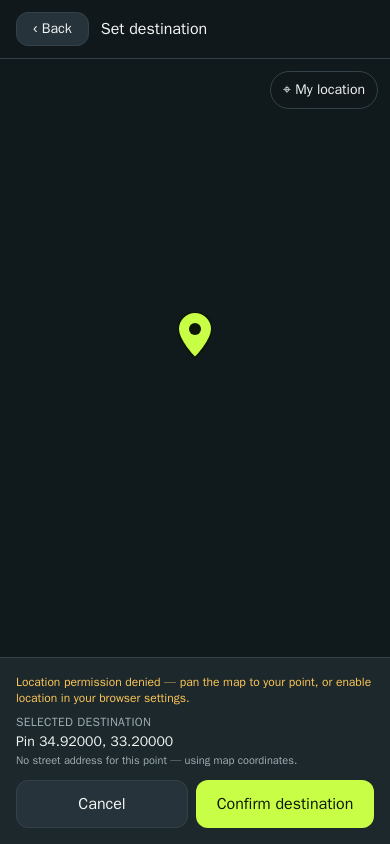
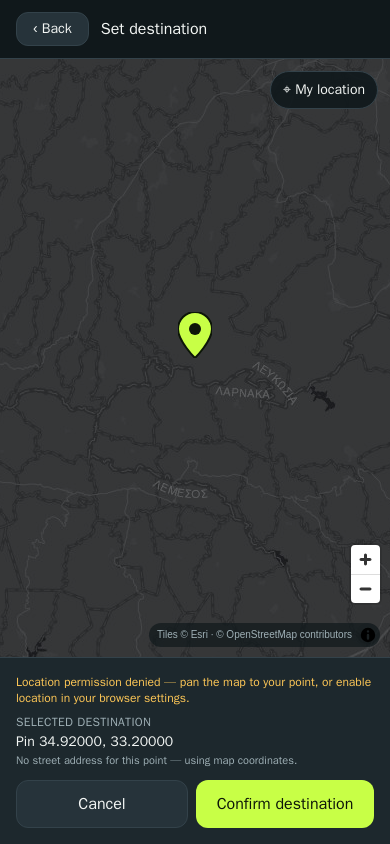
Task 009: fix map tiles (Esri) + Referrer-Policy + picker-not-loading; browser-verified
- Root cause of picker blank map: the map container (absolute inset-0) resolved to
  height 0, so MapLibre fell back to a 300px canvas. Fixed with explicit h-full w-full
  (container now fills the 598px region; canvas 598px; tiles render — verified by
  screenshot showing Cyprus labels/roads).
- Referrer-Policy: strict-origin-when-cross-origin on ordinary pages so tile providers
  get the origin; no-referrer kept on /track and /api (no token/path leakage).
- Picker lifecycle: ResizeObserver + delayed resizes, loading state, Confirm gated on
  map load, Retry recreates the map; background booking map unmounted while picker open.
- Browser QA updated: waits for map load before screenshot; screenshots refreshed.

Claude-Session: https://claude.ai/code/session_01Es9fK9KV7TUk8fY9RUjHFY

diff --git a/src/components/booking/MapPicker.tsx b/src/components/booking/MapPicker.tsx
@@ -56,6 +56,8 @@ export default function MapPicker({ kind, initial, fallback, onConfirm, onCancel
   const [geo, setGeo] = useState<GeoState>('idle');
   const [accuracyM, setAccuracyM] = useState<number | null>(null);
   const [failed, setFailed] = useState(false);
+  const [mapLoaded, setMapLoaded] = useState(false);
+  const [retryKey, setRetryKey] = useState(0);
   const label = kind === 'pickup' ? 'Set pickup location' : 'Set destination';
 
   // Lock background scroll; restore on close.
@@ -92,6 +94,10 @@ export default function MapPicker({ kind, initial, fallback, onConfirm, onCancel
 
   useEffect(() => {
     let disposed = false;
+    let ro: ResizeObserver | null = null;
+    let timers: ReturnType<typeof setTimeout>[] = [];
+    setFailed(false);
+    setMapLoaded(false);
     (async () => {
       try {
         const maplibre = (await import('maplibre-gl')).default;
@@ -101,26 +107,31 @@ export default function MapPicker({ kind, initial, fallback, onConfirm, onCancel
           container: containerRef.current,
           style: demoStyle(),
           center: [start.lng, start.lat],
-          zoom: initial ? 15 : fallback ? 12 : 8,
+          zoom: initial ? 15 : fallback ? 13 : 10,
           attributionControl: { compact: true },
         });
         map.on('error', () => { if (!map.loaded()) setFailed(true); });
         map.addControl(new maplibre.NavigationControl({ showCompass: false }), 'bottom-right');
-        // User gestures mark the camera as user-controlled.
         const userGesture = (e: { originalEvent?: unknown }) => { if (e.originalEvent) userMoveCount.current += 1; };
         map.on('dragstart', userGesture);
         map.on('zoomstart', userGesture);
         map.on('rotatestart', userGesture);
-        // Coordinate tracks the centre under the fixed pin; label invalidates immediately.
         map.on('move', () => { const c = map.getCenter(); onCoordChange(c.lat, c.lng); });
         map.on('moveend', () => { const c = map.getCenter(); reverseGeocode(c.lat, c.lng, draftRev.current); });
         map.on('load', () => {
           if (disposed || closed.current) return;
+          setMapLoaded(true);
           map.resize();
           reverseGeocode(start.lat, start.lng, draftRev.current);
         });
         mapRef.current = map;
-        if (!initial) requestLocation(false); // auto-locate only when this field is empty
+        // This map lives in a fixed overlay: ensure it sizes to the visible container
+        // after layout settles, and on any later container resize/orientation change.
+        ro = new ResizeObserver(() => mapRef.current?.resize());
+        if (containerRef.current) ro.observe(containerRef.current);
+        [50, 200, 500].forEach((ms) => timers.push(setTimeout(() => mapRef.current?.resize(), ms)));
+        // Map init proceeds independently of geolocation.
+        if (!initial) requestLocation(false);
       } catch {
         if (!disposed) setFailed(true);
       }
@@ -130,13 +141,15 @@ export default function MapPicker({ kind, initial, fallback, onConfirm, onCancel
     window.addEventListener('orientationchange', onResize);
     return () => {
       disposed = true;
+      timers.forEach(clearTimeout);
+      ro?.disconnect();
       window.removeEventListener('resize', onResize);
       window.removeEventListener('orientationchange', onResize);
       mapRef.current?.remove();
       mapRef.current = null;
     };
     // eslint-disable-next-line react-hooks/exhaustive-deps
-  }, []);
+  }, [retryKey]);
 
   // Reverse-geocode tied to a specific draft revision. Applies ONLY if that draft is
   // still current (and the picker is open); ignores every stale success and failure.
@@ -252,23 +265,35 @@ export default function MapPicker({ kind, initial, fallback, onConfirm, onCancel
         {failed ? (
           <div className="flex h-full items-center justify-center px-6 text-center text-muted">
             <div>
-              <div className="text-sm text-ink">Map unavailable</div>
-              <div className="mt-1 text-xs">Close this and enter the address by name instead.</div>
-              <button className="btn-ghost mt-4" onClick={cancel}>Close</button>
+              <div className="text-sm text-ink">Map temporarily unavailable</div>
+              <div className="mt-1 text-xs">Your entered details are safe.</div>
+              <div className="mt-4 flex justify-center gap-2">
+                <button className="btn-primary" onClick={() => setRetryKey((k) => k + 1)}>Retry</button>
+                <button className="btn-ghost" onClick={cancel}>Enter address instead</button>
+              </div>
             </div>
           </div>
         ) : (
           <>
-            <div ref={containerRef} className="absolute inset-0" aria-label="Map — drag to position the pin" role="application" />
-            <div className="pointer-events-none absolute left-1/2 top-1/2 z-10 -translate-x-1/2 -translate-y-full">
-              <svg width="34" height="46" viewBox="0 0 34 46" aria-hidden>
-                <path d="M17 0C7.6 0 0 7.6 0 17c0 12 17 29 17 29s17-17 17-29C34 7.6 26.4 0 17 0z" fill="#C8FF46" stroke="#0d1608" strokeWidth="2" />
-                <circle cx="17" cy="17" r="6" fill="#0d1608" />
-              </svg>
-            </div>
+            <div ref={containerRef} className="absolute inset-0 h-full w-full" aria-label="Map — drag to position the pin" role="application" />
+            {/* Fixed selection pin appears only once the map can actually display it. */}
+            {mapLoaded && (
+              <div className="pointer-events-none absolute left-1/2 top-1/2 z-10 -translate-x-1/2 -translate-y-full">
+                <svg width="34" height="46" viewBox="0 0 34 46" aria-hidden>
+                  <path d="M17 0C7.6 0 0 7.6 0 17c0 12 17 29 17 29s17-17 17-29C34 7.6 26.4 0 17 0z" fill="#C8FF46" stroke="#0d1608" strokeWidth="2" />
+                  <circle cx="17" cy="17" r="6" fill="#0d1608" />
+                </svg>
+              </div>
+            )}
+            {!mapLoaded && (
+              <div className="absolute inset-0 z-10 flex items-center justify-center text-sm text-muted">
+                <span className="animate-pulse">Loading map…</span>
+              </div>
+            )}
             <button
-              className="absolute right-3 top-3 z-10 rounded-full border border-edge bg-page/90 px-3 py-2 text-sm text-ink hover:border-accent/50"
+              className="absolute right-3 top-3 z-10 rounded-full border border-edge bg-page/90 px-3 py-2 text-sm text-ink hover:border-accent/50 disabled:opacity-50"
               onClick={() => requestLocation(true)}
+              disabled={!mapLoaded}
             >
               ⌖ My location
             </button>
@@ -289,7 +314,7 @@ export default function MapPicker({ kind, initial, fallback, onConfirm, onCancel
         </div>
         <div className="flex gap-2">
           <button className="btn-ghost flex-1" onClick={cancel}>Cancel</button>
-          <button className="btn-primary flex-1" onClick={confirm} disabled={failed}>
+          <button className="btn-primary flex-1" onClick={confirm} disabled={failed || !mapLoaded}>
             {kind === 'pickup' ? 'Confirm pickup' : 'Confirm destination'}
           </button>
         </div>

diff --git a/tests-e2e/picker.spec.ts b/tests-e2e/picker.spec.ts
@@ -47,14 +47,16 @@ test('picker opens full-screen for BOTH fields; screenshots', async ({ page }) =
   await page.getByText('Set pickup on map').click();
   await expect(page.getByRole('heading', { name: 'Set pickup location' })).toBeVisible();
   await expect(page.getByText('My location')).toBeVisible();
-  await expect(page.getByRole('button', { name: 'Confirm pickup' })).toBeVisible();
-  await page.waitForTimeout(1500);
+  // Map must actually LOAD: Confirm is disabled until the map can display the point.
+  await expect(page.getByRole('button', { name: 'Confirm pickup' })).toBeEnabled({ timeout: 15000 });
+  await page.waitForTimeout(2500); // let tiles paint
   await page.screenshot({ path: `${SHOTS}/mobile-picker-pickup.png` });
   await page.getByRole('button', { name: 'Back' }).click();
 
   await page.getByText('Set destination on map').click();
   await expect(page.getByRole('heading', { name: 'Set destination' })).toBeVisible();
-  await page.waitForTimeout(1500);
+  await expect(page.getByRole('button', { name: 'Confirm destination' })).toBeEnabled({ timeout: 15000 });
+  await page.waitForTimeout(2500);
   await page.screenshot({ path: `${SHOTS}/mobile-picker-destination.png` });
   await page.getByRole('button', { name: 'Back' }).click();
   await expect(page.getByRole('heading', { name: 'Where to next?' })).toBeVisible();
@@ -72,7 +74,7 @@ test('form state and other stop survive picker confirm', async ({ page, context 
   // pick a destination via the picker, then confirm
   await page.getByText('Set destination on map').click();
   await expect(page.getByRole('heading', { name: 'Set destination' })).toBeVisible();
-  await page.waitForTimeout(1000);
+  await expect(page.getByRole('button', { name: 'Confirm destination' })).toBeEnabled({ timeout: 15000 });
   await panMap(page);
   await page.getByRole('button', { name: 'Confirm destination' }).click();
 
@@ -94,7 +96,7 @@ test('REGRESSION: a delayed (stale) reverse response is never applied as the con
   await openBooking(page);
   await page.getByText('Set pickup on map').click();
   await expect(page.getByRole('heading', { name: 'Set pickup location' })).toBeVisible();
-  await page.waitForTimeout(800);
+  await expect(page.getByRole('button', { name: 'Confirm pickup' })).toBeEnabled({ timeout: 15000 });
   await panMap(page);                 // move to a new point
   await page.getByRole('button', { name: 'Confirm pickup' }).click(); // confirm BEFORE the 3s response
   const pickup = await page.getByPlaceholder('Pickup location').inputValue();

diff --git a/src/middleware.ts b/src/middleware.ts
@@ -65,7 +65,12 @@ export function middleware(req: NextRequest) {
   res.headers.set('Content-Security-Policy', csp);
   res.headers.set('X-Content-Type-Options', 'nosniff');
   res.headers.set('X-Frame-Options', 'DENY');
-  res.headers.set('Referrer-Policy', 'no-referrer');
+  // Tile providers may require a Referer. Send only the ORIGIN (never the path/query,
+  // so tracking references and tokens never leak) on ordinary pages; keep strict
+  // no-referrer on the tracking page and all API/private responses.
+  const p = req.nextUrl.pathname;
+  const strictNoRef = p === '/track' || p.startsWith('/api/');
+  res.headers.set('Referrer-Policy', strictNoRef ? 'no-referrer' : 'strict-origin-when-cross-origin');
   res.headers.set('Permissions-Policy', 'geolocation=(self), camera=(), microphone=(), payment=()');
   return res;
 }

diff --git a/src/components/booking/BookingApp.tsx b/src/components/booking/BookingApp.tsx
@@ -184,7 +184,13 @@ export default function BookingApp() {
 
       <div className="relative flex-1">
         <div className="absolute inset-0">
-          <MapView markers={markers} center={{ lat: 34.92, lng: 33.2 }} zoom={9} interactive className="h-full w-full" />
+          {/* The full-screen picker is its own map; unmount this background map while it's
+              open (frees the WebGL context and avoids two simultaneous map instances). */}
+          {picker ? (
+            <div className="h-full w-full bg-[#0e1518]" />
+          ) : (
+            <MapView markers={markers} center={{ lat: 34.92, lng: 33.2 }} zoom={9} interactive className="h-full w-full" />
+          )}
         </div>
 
         <div className="pointer-events-none absolute inset-0 flex flex-col justify-end sm:block">

diff --git a/tests-e2e/playwright.config.ts b/tests-e2e/playwright.config.ts
@@ -11,5 +11,15 @@ export default defineConfig({
     trace: 'off',
     screenshot: 'off',
   },
-  projects: [{ name: 'chromium', use: { ...devices['Desktop Chrome'] } }],
+  projects: [
+    {
+      name: 'chromium',
+      use: {
+        ...devices['Desktop Chrome'],
+        // Headless chromium here falls back to software WebGL; opt in explicitly so
+        // MapLibre renders reliably (matches guidance in the runtime warning).
+        launchOptions: { args: ['--enable-unsafe-swiftshader', '--ignore-gpu-blocklist'] },
+      },
+    },
+  ],
 });

diff --git a/Tasks/009-FIX-OSM-TILE-403.md b/Tasks/009-FIX-OSM-TILE-403.md
@@ -1,6 +1,6 @@
 # Task 009 — Restore blocked tiles and fix map picker loading
 
-Status: TODO
+Status: DONE (2026-09-12) — root cause confirmed: OSM public tiles 403-block app/datacenter usage AND the global no-referrer header stripped the Referer OSM needs. Fix: switched demo basemap to Esri Dark Gray (no key/watermark) and set Referrer-Policy=strict-origin-when-cross-origin on ordinary pages (no-referrer kept on /track + /api). §3A picker-not-loading fixed: ResizeObserver + delayed resizes size the fixed-overlay map, loading state, Confirm gated until the map can display the point, Retry recreates the map. Browser-verified (Playwright 6/6) with screenshots showing tiles rendering.
 Priority: High — visible beta map failure
 Application: IL-Yas
 Repository: https://github.com/tintsemaria-netizen/cyprus_taxi

diff --git a/Tasks/README.md b/Tasks/README.md
@@ -14,6 +14,7 @@ Status legend per stage — **impl** (code), **auto** (unit/DB tests), **browser
 | [006](006-FULLSCREEN-MAP-PICKER-AND-GEOLOCATION.md) | Full-screen map picker + browser geolocation | ✅ | ➖ | ⬜ | ⬜ | ✅ |
 | [007](007-IL-YAS-BRANDING-AND-UI.md) | Rebrand to IL-Yas (logo, palette, icons, metadata) | ✅ | ➖ | ⬜ | ⬜ | ✅ |
 | [008](008-MAP-PICKER-CORRECTNESS-AND-BROWSER-QA.md) | Picker coord/address consistency, lifecycle, **browser QA** | ✅ | ✅ | ✅ | ⬜ | ✅ |
+| [009](009-FIX-OSM-TILE-403.md) | Restore blocked map tiles + fix picker not loading | ✅ | ✅ | ✅ | ⬜ | ✅ |
 
 ✅ done · ⬜ pending · ➖ n/a. **Automated + browser QA are done** (24 vitest + 6
 Playwright, see `docs/BROWSER_QA.md` and `docs/qa-screenshots/`). The remaining open
